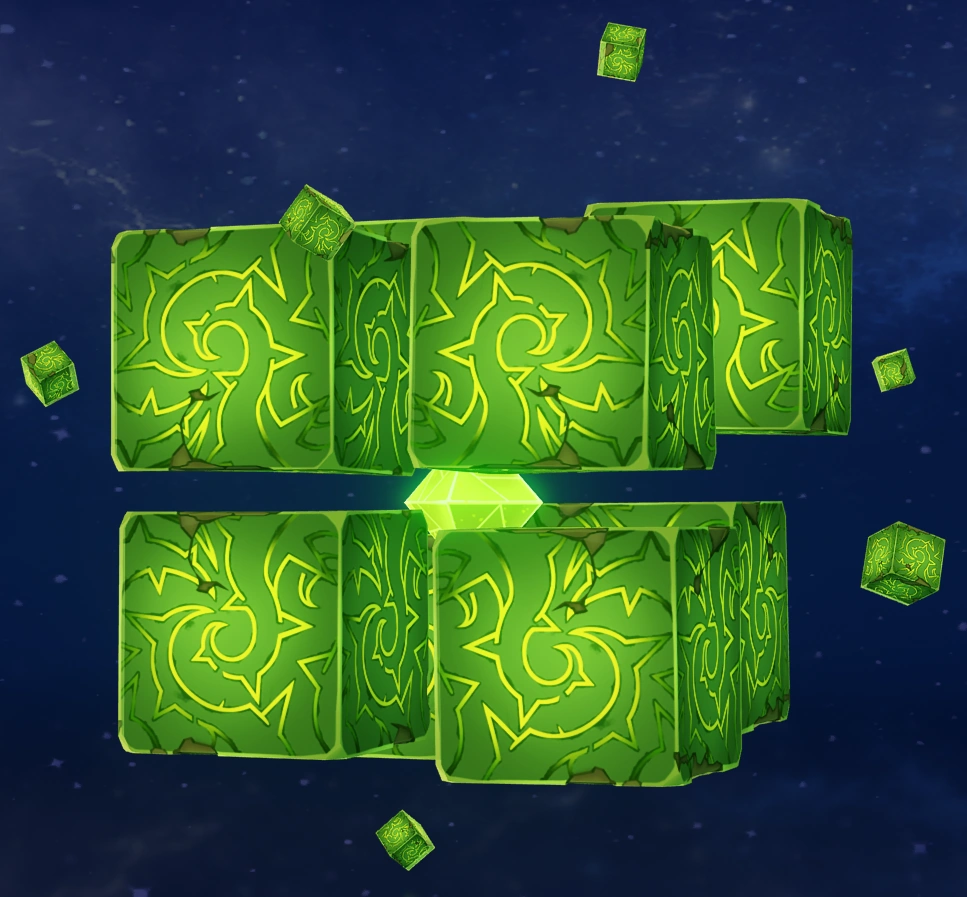
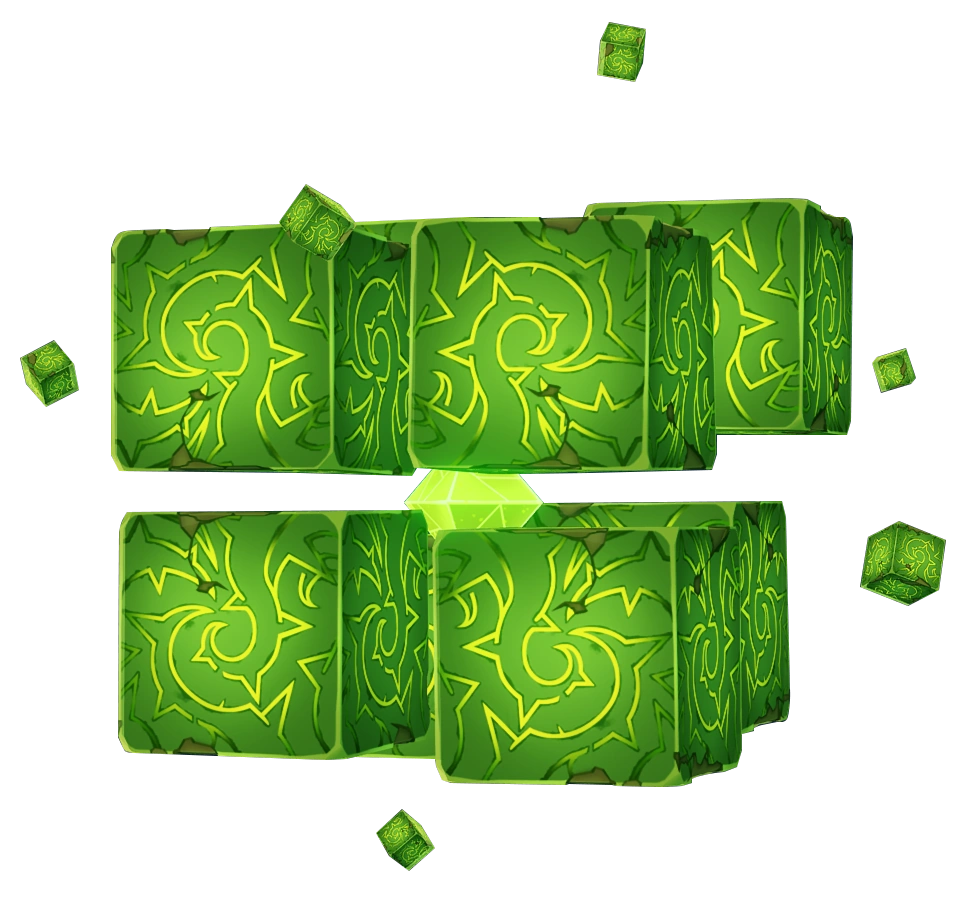
replace dendro hypostasis image

diff --git a/src/app/util/util.ts b/src/app/util/util.ts
@@ -5,7 +5,7 @@ export class Util {
   /**
    * 分组
    *
-   * @param arr 数组
+   * @param array 数组
    * @param key 生成key的方式
    * @param value  生成值的方式
    * @returns 按key分组的Map
